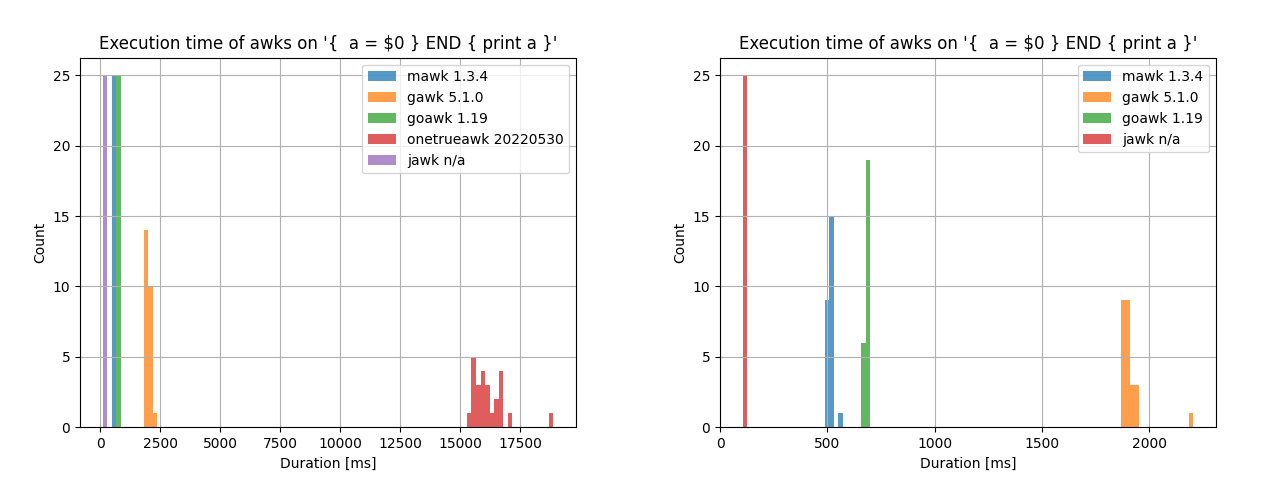
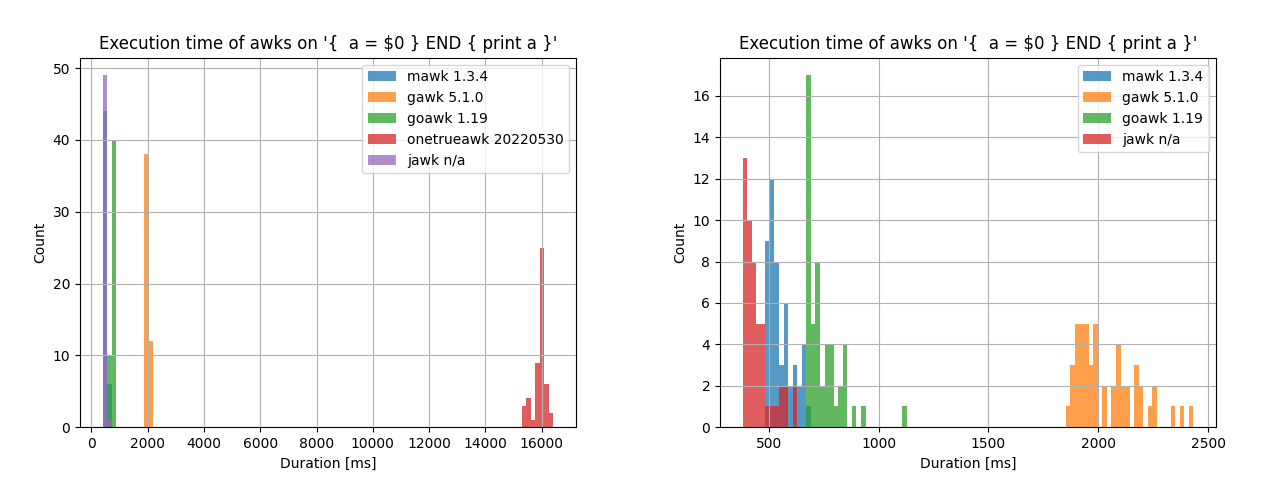
practical example returns

diff --git a/README.md b/README.md
@@ -19,7 +19,13 @@ Here we see jawk is doing okay but the interpreters are much closer and onetruea
 
 ### (Slightly more) practical example
 
-TODO
+Reading a 300MB CSV file, storing every line in a variable, and then printing the final line.
+
+![Left is a histogram of mawk, gawk, goawk, jawk, and onetrue awk. Right omits onetrueawk since it s 10x slower than the others. Mean runtimes are mawk: 554ms gawk: 2042ms goawk: 747ms jawk: 448ms](./assets/practical.png)
+
+ATM this is an unfair comparison since jawk field splitting isn't implemented. Shout out to mawk it took me a lot of optimization
+to beat their runtime for io bound programs.
+
 
 ## Limitations
 
@@ -79,8 +85,12 @@ Pattern Ranges
 
 ## License
 GNU Libjit is GPLv2. (./gnu-libjit-sys/LICENSE)
+
 Mawk is GPLv2 (./mawk-regex-sys/LICENSE)
-This project is GPLv2.
+
+Quick Drop Deque is MIT (./quick-drop-deque/LICENSE)
+
+The combined project is GPLv2 
 
 ## Running the tests
 
